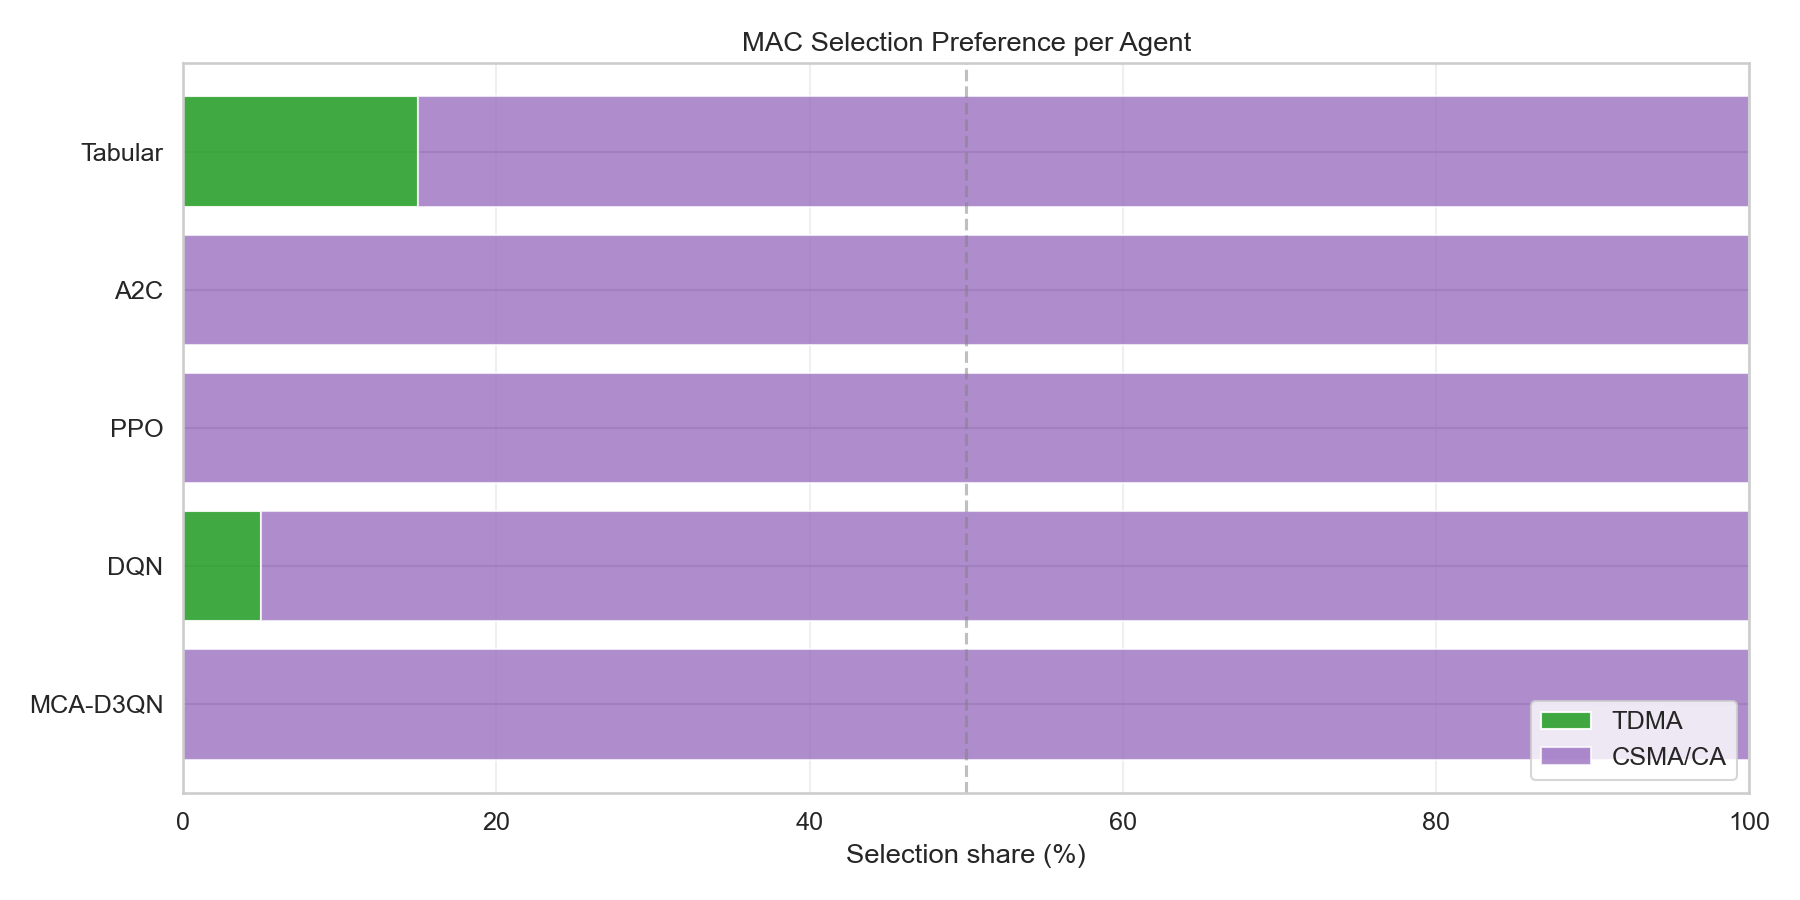
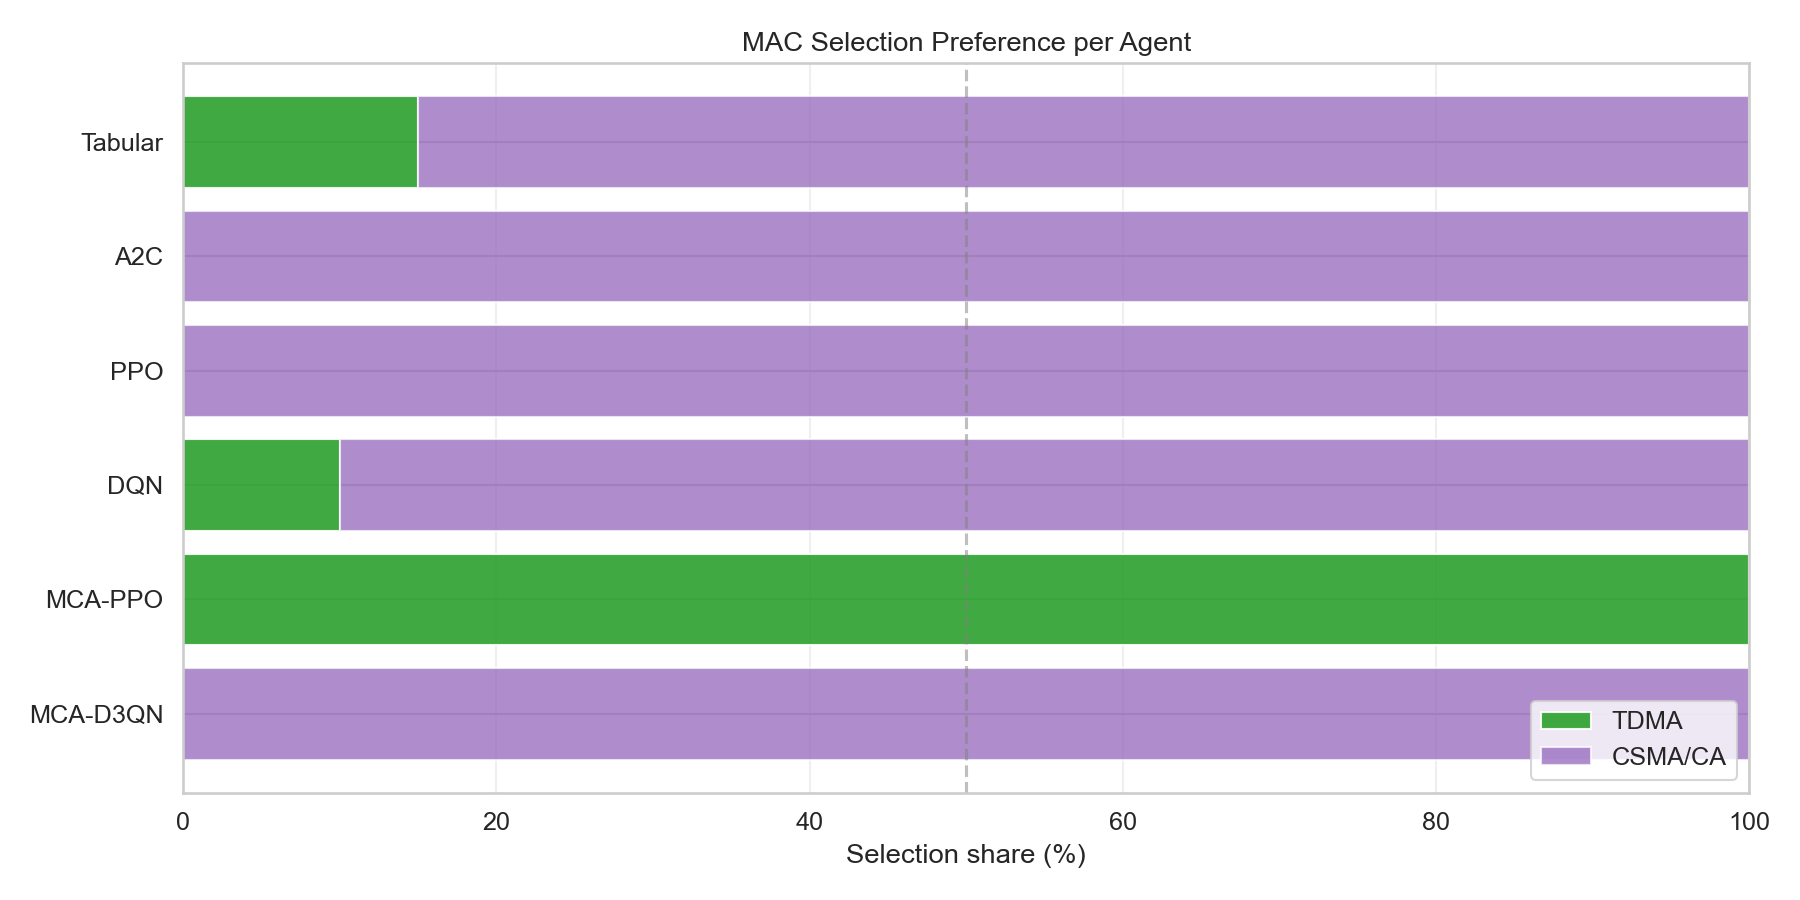
added 16-trial optuna sweep and fairness logs

diff --git a/experiments/parallel_runner.py b/experiments/parallel_runner.py
@@ -40,19 +40,20 @@ def run_experiment(algo, wandb_flag, seed, timesteps):
     ]
     if timesteps is not None:
         cmd.extend(["--timesteps", str(timesteps)])
-    if wandb_flag:
-        cmd.append("--wandb")
-        
-    if algo.lower() == "mca-ppo" and os.path.exists("best_weights_and_params.json"):
+    if os.path.exists("best_weights_and_params.json"):
         import json
         try:
             with open("best_weights_and_params.json", "r") as f:
-                params = json.load(f)
-            if "lr" in params:
-                cmd.extend(["--lr", str(params["lr"])])
-            if "batch_size" in params:
-                cmd.extend(["--batch-size", str(params["batch_size"])])
-            print(f"  [Optuna] Injected tuned hyperparameters for MCA-PPO: {params}")
+                all_params = json.load(f)
+            # Find the params for this specific algorithm
+            algo_key = algo.lower().replace("-", "_")
+            if algo_key in all_params:
+                params = all_params[algo_key]
+                if "lr" in params:
+                    cmd.extend(["--lr", str(params["lr"])])
+                if "batch_size" in params:
+                    cmd.extend(["--batch-size", str(params["batch_size"])])
+                print(f"  [Optuna] Injected tuned hyperparameters for {algo}: {params}")
         except Exception as e:
             print(f"  [Optuna] Failed to load tuned params: {e}")
         
@@ -60,9 +61,9 @@ def run_experiment(algo, wandb_flag, seed, timesteps):
     process = subprocess.Popen(cmd)
     return algo, process
 
-def optuna_objective(trial):
+def optuna_objective(trial, algo):
     """
-    Optuna implementation: tunes MCA-PPO learning rate and batch size.
+    Optuna implementation: tunes learning rate and batch size for the given algorithm.
     """
     lr = trial.suggest_float('lr', 1e-5, 1e-2, log=True)
     batch_size = trial.suggest_categorical('batch_size', [32, 64, 128, 256])
@@ -70,21 +71,22 @@ def optuna_objective(trial):
     cmd = [
         sys.executable,
         os.path.join(os.path.dirname(__file__), "run_sarl_comparison.py"),
-        "--algo", "mca_ppo",
+        "--algo", algo,
         "--seed", "42",
         "--out-dir", SHARED_OUT_DIR,
         "--skip-baselines",
         "--skip-plots",
+        "--skip-eval",
         "--lr", str(lr),
         "--batch-size", str(batch_size),
-        "--timesteps", "2000" # Fast tune
+        "--timesteps", "10000" # Full tune length
     ]
-    process = subprocess.Popen(cmd, stdout=subprocess.DEVNULL)
+    process = subprocess.Popen(cmd, stdout=subprocess.DEVNULL, stderr=subprocess.DEVNULL)
     process.wait()
     
     import pandas as pd
     try:
-        csv_path = os.path.join(SHARED_OUT_DIR, "csv", "mca_ppo_training_rewards.csv")
+        csv_path = os.path.join(SHARED_OUT_DIR, "csv", f"{algo}_training_rewards.csv")
         df = pd.read_csv(csv_path)
         return df['reward'].tail(max(1, len(df)//10)).mean()
     except Exception:
@@ -101,16 +103,26 @@ def main():
     args = parser.parse_args()
 
     if args.use_optuna:
-        print("[Optuna Mode] Running Optuna sweep for MCA-PPO...")
+        import optuna
+        import json
+        from functools import partial
+        
+        algos_to_tune = ["dqn", "ppo", "a2c", "mca_d3qn", "mca_ppo"]
+        print(f"[Optuna Mode] Running Optuna sweep for algorithms: {algos_to_tune}")
+        
+        master_params = {}
         try:
-            import optuna
-            import json
-            study = optuna.create_study(direction="maximize")
-            study.optimize(optuna_objective, n_trials=5)
-            print("Best params:", study.best_params)
+            for algo in algos_to_tune:
+                print(f"\n[Optuna] Starting tuning for {algo.upper()} (16 trials x 10,000 steps)...")
+                study = optuna.create_study(direction="maximize")
+                objective_with_algo = partial(optuna_objective, algo=algo)
+                study.optimize(objective_with_algo, n_trials=16)
+                print(f"[{algo.upper()}] Best params: {study.best_params}")
+                master_params[algo] = study.best_params
+                
             with open("best_weights_and_params.json", "w") as f:
-                json.dump(study.best_params, f, indent=4)
-            print("Wrote best_weights_and_params.json")
+                json.dump(master_params, f, indent=4)
+            print("\n[Optuna] Tuning Complete! Wrote all best parameters to best_weights_and_params.json")
         except ImportError:
             print("Optuna not installed. Run: pip install optuna")
         return

diff --git a/experiments/run_sarl_comparison.py b/experiments/run_sarl_comparison.py
@@ -84,6 +84,8 @@ def aggregate_cluster_infos(raw_infos):
         "delay_ms": float(np.mean([i.get("delay_ms", 0.0) for i in alive_infos])),
         "drops": float(sum(i.get("drops", 0.0) for i in alive_infos)),
         "collisions": float(sum(i.get("collisions", 0.0) for i in alive_infos)),
+        "jains_fairness": float(alive_infos[0].get("jains_fairness", 1.0)),
+        "leader_health": float(np.mean([i.get("leader_health", 1.0) for i in alive_infos])),
     }
 
 
@@ -114,6 +116,7 @@ def step1_baselines(pps_list, seed, log):
 
             ep_thr, ep_del = [], []
             ep_drops, ep_col = 0, 0
+            ep_fairness, ep_health = [], []
 
             while env.agents:
                 actions = {a: fixed_action for a in env.possible_agents}
@@ -123,12 +126,16 @@ def step1_baselines(pps_list, seed, log):
                 ep_del.append(agg["delay_ms"])
                 ep_drops += agg["drops"]
                 ep_col += agg["collisions"]
+                ep_fairness.append(agg["jains_fairness"])
+                ep_health.append(agg["leader_health"])
 
             n_steps = max(len(ep_thr), 1)
             row[f"{proto_name}_Throughput_Mbps"] = round(sum(ep_thr) / n_steps, 6)
             row[f"{proto_name}_Delay_s"] = round(sum(ep_del) / n_steps / 1000.0, 8)
             row[f"{proto_name}_Drops"] = ep_drops
             row[f"{proto_name}_Collisions"] = ep_col
+            row[f"{proto_name}_Fairness"] = round(sum(ep_fairness) / n_steps, 4)
+            row[f"{proto_name}_Health"] = round(sum(ep_health) / n_steps, 4)
 
         results.append(row)
     return pd.DataFrame(results)
@@ -425,6 +432,7 @@ def step3_evaluate(pps_list, cp_dir, out_dir, seed, log, deterministic_eval=True
 
         for model_name, model in models.items():
             total_thr, total_delay, total_drops, total_collisions, steps = 0, 0, 0, 0, 0
+            total_fairness, total_health = 0.0, 0.0
             mac_choices = []
             avg_thr, avg_delay, dom_mac = 0.0, 0.0, "CSMA"
             total_inf_time = 0.0
@@ -446,15 +454,19 @@ def step3_evaluate(pps_list, cp_dir, out_dir, seed, log, deterministic_eval=True
 
                 raw = info.get("raw_infos", {})
                 if raw:
-                    any_i = next(iter(raw.values()), {})
-                    total_thr += any_i.get("throughput", 0)
-                    total_delay += any_i.get("delay_ms", 0)
-                    total_drops += any_i.get("drops", 0)
-                    total_collisions += any_i.get("collisions", 0)
+                    agg = aggregate_cluster_infos(raw)
+                    total_thr += agg["throughput_mbps"]
+                    total_delay += agg["delay_ms"]
+                    total_drops += agg["drops"]
+                    total_collisions += agg["collisions"]
+                    total_fairness += agg["jains_fairness"]
+                    total_health += agg["leader_health"]
                 steps += 1
 
             avg_thr = total_thr / max(steps, 1)
             avg_delay = total_delay / max(steps, 1)
+            avg_fairness = total_fairness / max(steps, 1)
+            avg_health = total_health / max(steps, 1)
             dom_mac = "TDMA" if mac_choices.count(0) > mac_choices.count(1) else "CSMA"
 
             tdma_count = int(mac_choices.count(0))
@@ -469,6 +481,8 @@ def step3_evaluate(pps_list, cp_dir, out_dir, seed, log, deterministic_eval=True
                 'Delay_ms': round(avg_delay, 4),
                 'Drops': total_drops,
                 'Collisions': total_collisions,
+                'Fairness': round(avg_fairness, 4),
+                'Health': round(avg_health, 4),
                 'Dominant_MAC': dom_mac,
                 'TDMA_Share': round(tdma_count / total_count, 4),
                 'CSMA_Share': round(csma_count / total_count, 4),

diff --git a/envs/marl_mac_env.py b/envs/marl_mac_env.py
@@ -890,6 +890,17 @@ class MARLMacEnv(ParallelEnv):
             info["global_coord_success"] = global_coord_success
             info["current_offered_pps"] = float(self.current_offered_pps)
 
+        # Compute Jain's Fairness Index
+        th_values = np.array(list(throughput_per_cluster.values()), dtype=np.float64)
+        sum_th = np.sum(th_values)
+        if sum_th > 1e-9 and len(th_values) > 0:
+            jains_fairness = (sum_th ** 2) / (len(th_values) * np.sum(th_values ** 2))
+        else:
+            jains_fairness = 1.0
+
+        for agent_name, info in infos.items():
+            info["jains_fairness"] = float(jains_fairness)
+
         diagnostics = self.cluster_manager.get_diagnostics()
         summary = {
             "step": int(self.current_step),
